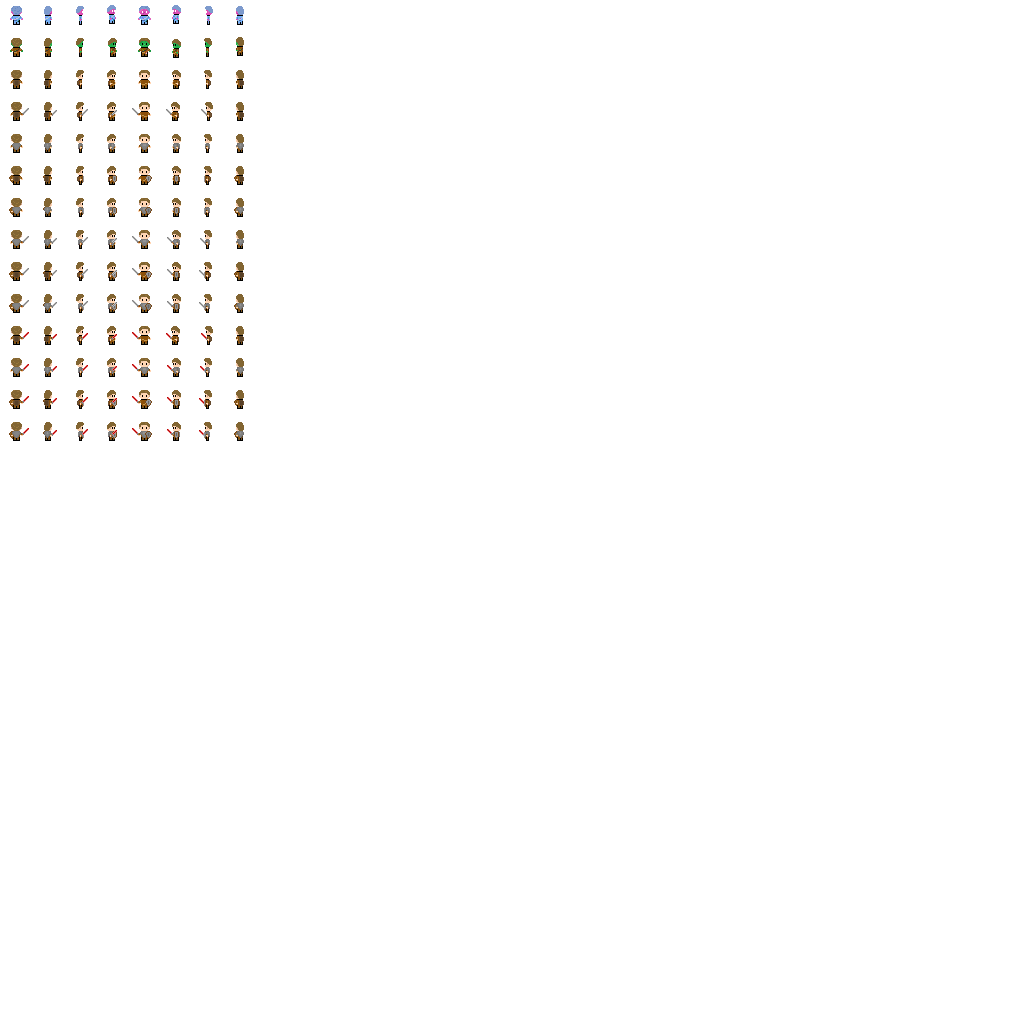
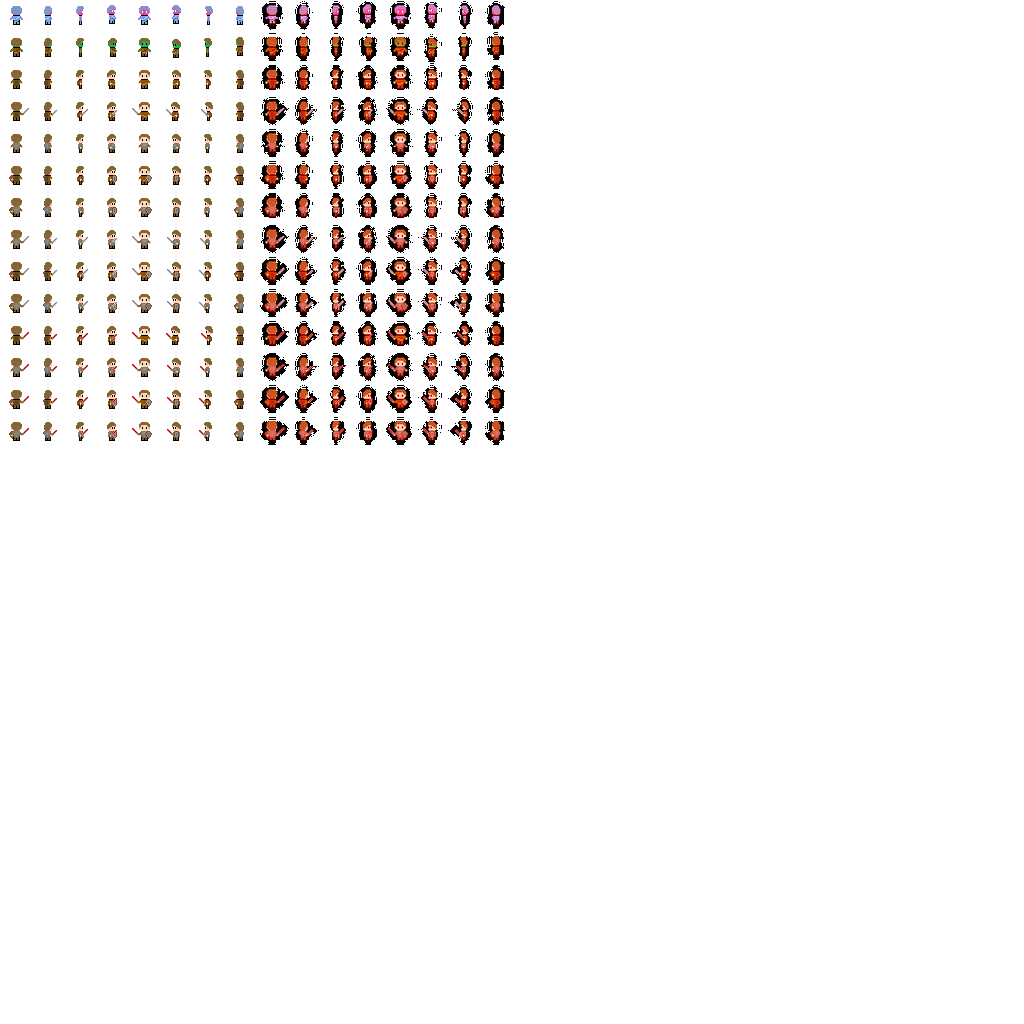
hurtanimation fast fertig

Changed region(s): [[0.25, 0.0, 0.5, 0.4375]]

diff --git a/desktop/src/src/Sprites.java b/desktop/src/src/Sprites.java
@@ -12,7 +12,7 @@ import com.badlogic.gdx.math.Rectangle;
 import com.badlogic.gdx.graphics.glutils.ShapeRenderer;
 import static com.badlogic.gdx.scenes.scene2d.actions.Actions.delay;
 
-public class Sprites extends SpriteBatch{
+public class Sprites extends SpriteBatch {
 
     private double[] randomx; //random x coordinate for plants
     private double[] randomy;  //random y coordinate for plants
@@ -31,11 +31,6 @@ public class Sprites extends SpriteBatch{
     BitmapFont font;
 
 
-
-
-
-
-
     public Sprites() {
         gameOver = new Texture(Gdx.files.internal("game over.png"));
         map = new Texture(Gdx.files.internal("map.png"));
@@ -49,14 +44,13 @@ public class Sprites extends SpriteBatch{
         randomx = new double[2000];
         randomy = new double[2000];
 
-        for(int i = 0; i < 2000; i++){
+        for (int i = 0; i < 2000; i++) {
             randomx[i] = MathUtils.random();
             randomy[i] = MathUtils.random();
         }
 
 
     }
-
 
 
     //methods
@@ -70,7 +64,7 @@ public class Sprites extends SpriteBatch{
         drawRegionNew(x, y);
     }
 
-    public void drawItem(int itemNr, int x, int y){ //draws item at given coordinates
+    public void drawItem(int itemNr, int x, int y) { //draws item at given coordinates
         setRegionItem(0, itemNr);
         drawRegionNew(x, y);
     }
@@ -104,14 +98,17 @@ public class Sprites extends SpriteBatch{
         setSpriteNr(spriteNr);
         setStatus(status);
     }
+
     public void setCharacterSprite(int status, int spriteNr) {
         setRegionCharacter(spriteNr, status);
         setSpriteNr(spriteNr);
         setStatus(status);
     }
+
     public void setCharacterSprite() {
         setRegionCharacter(getSpriteNr(), getStatus());
     }
+
     public void setRegionCommon(Texture texture, int x, int y, int size, int offsetx, int offsety) { //sets the region to a square of 32 * the size with the given offset at the coordinates x and y
         if (size > 0) {
             region = new TextureRegion(texture, (size * 32 * x) + offsetx, (size * 32 * y) + offsety, size * 32, size * 32);
@@ -123,7 +120,7 @@ public class Sprites extends SpriteBatch{
     }
 
     public void setRegionPlant(int plantType, int plantNr) {
-        setRegionCommon(plantatlas,plantNr, plantType, 2, 0, 0);
+        setRegionCommon(plantatlas, plantNr, plantType, 2, 0, 0);
     }
 
 
@@ -142,7 +139,7 @@ public class Sprites extends SpriteBatch{
 
     public void maps() { //draws map
         setRegionCommon(map, 0, 0, 128, 0, 0);
-        drawRegionNew(0,0);
+        drawRegionNew(0, 0);
     }
 
     public void lol(Matrix4 k) {
@@ -150,66 +147,65 @@ public class Sprites extends SpriteBatch{
     }
 
 
-    public void drawPlant(int plantType, int plantNr, int x, int y){ //draws a single plant, aux mehtod
+    public void drawPlant(int plantType, int plantNr, int x, int y) { //draws a single plant, aux mehtod
 
-        if(plantType == 5){
-            if(plantNr < 2){
+        if (plantType == 5) {
+            if (plantNr < 2) {
                 setRegionCommon(plantatlas, 0, 2, 4, 0, 64);
-            }
-            else{
+            } else {
                 setRegionCommon(plantatlas, 1, 2, 4, 0, 64);
             }
+        } else {
+            setRegionPlant(plantType, plantNr);
         }
-            else{setRegionPlant(plantType, plantNr);}
-            drawRegionNew(x, y);
+        drawRegionNew(x, y);
     }
 
     public void drawManyPlantsNew() { //draws plants at randomized locations
-int q;
+        int q;
         for (int j = 0; j < 800; j++) {
 
-                        drawPlant(0, compare(((int) (randomx[j] * 3900) + 100), j), (int) (randomx[j] * 3800) + 100, (int) (randomy[j] * 3850) + 100);
-                    }
+            drawPlant(0, compare(((int) (randomx[j] * 3900) + 100), j), (int) (randomx[j] * 3800) + 100, (int) (randomy[j] * 3850) + 100);
+        }
 
 
         for (int j = 0; j < 300; j++) {
 
-                    drawPlant(1, compare(((int) (randomx[j + 800] * 3900) + 100), j), (int) (randomx[j + 800] * 3800) + 100, (int) (randomy[j + 800] * 3850) + 100);
-                }
+            drawPlant(1, compare(((int) (randomx[j + 800] * 3900) + 100), j), (int) (randomx[j + 800] * 3800) + 100, (int) (randomy[j + 800] * 3850) + 100);
+        }
 
-                for (int j = 0; j < 200; j++) {
+        for (int j = 0; j < 200; j++) {
 
-                    drawPlant(2, compare(((int) (randomx[j + 1100] * 3900) + 100), j), (int) (randomx[j + 1100] * 3800) + 100, (int) (randomy[j + 1100] * 3850) + 100);
-                }
-
-
-                for (int j = 0; j < 200; j++) {
-
-                    drawPlant(3, compare(((int) (randomx[j + 1300] * 3900) + 100), j), (int) (randomx[j + 1300] * 3800) + 100, (int) (randomy[j + 1300] * 3850) + 100);
-                }
+            drawPlant(2, compare(((int) (randomx[j + 1100] * 3900) + 100), j), (int) (randomx[j + 1100] * 3800) + 100, (int) (randomy[j + 1100] * 3850) + 100);
+        }
 
 
-                for (int j = 0; j < 150; j++) {
+        for (int j = 0; j < 200; j++) {
 
-                    drawPlant(4, compare(((int) (randomx[j + 1500] * 3900) + 100), j), (int) (randomx[j + 1500] * 3800) + 100, (int) (randomy[j + 1500] * 3850) + 100);
-                }
-
-
-                for (int j = 0; j < 50; j++) {
-
-                    drawPlant(5, compare(((int) (randomx[j + 1650] * 3900) + 100), j), (int) (randomx[j + 1650] * 3800) + 100, (int) (randomy[j + 1650] * 3850) + 100);
-                }
+            drawPlant(3, compare(((int) (randomx[j + 1300] * 3900) + 100), j), (int) (randomx[j + 1300] * 3800) + 100, (int) (randomy[j + 1300] * 3850) + 100);
+        }
 
 
+        for (int j = 0; j < 150; j++) {
+
+            drawPlant(4, compare(((int) (randomx[j + 1500] * 3900) + 100), j), (int) (randomx[j + 1500] * 3800) + 100, (int) (randomy[j + 1500] * 3850) + 100);
+        }
+
+
+        for (int j = 0; j < 50; j++) {
+
+            drawPlant(5, compare(((int) (randomx[j + 1650] * 3900) + 100), j), (int) (randomx[j + 1650] * 3800) + 100, (int) (randomy[j + 1650] * 3850) + 100);
+        }
 
 
     }
+
     public int compare(int abscissa, int j) { //aux method for drawManyPlants
         int q;
         if (abscissa < 3030) {
             q = (int) (randomx[j] * 2);
         } else {
-            if (((int) (randomx[j] * 2) == 1)){
+            if (((int) (randomx[j] * 2) == 1)) {
                 q = 3;
             } else {
                 q = 2;
@@ -217,35 +213,37 @@ int q;
         }
         return q;
     }
-    public void drawTower(){ //draws the tower
+
+    public void drawTower() { //draws the tower
         drawPlant(1, 4, 2048, 2048);
 
     }
 
-    public void drawRegionGameOver(int x, int y, int drawx, int drawy){ //selects the frame for game over screen
+    public void drawRegionGameOver(int x, int y, int drawx, int drawy) { //selects the frame for game over screen
         region = new TextureRegion(gameOver, x, y, 320, 180);
         drawRegionNew(drawx, drawy);
     }
 
-    public void drawGameOver(int x, int y){ //draws (animated) game over screen
-        for(int i = 0; i < 4; i++){
-            for(int k = 0; k < 12; k++){
-                if(i < 3){
-                    drawRegionGameOver( k * 320, 360 + i * 180, x, y);
+    public void drawGameOver(int x, int y) { //draws (animated) game over screen
+        for (int i = 0; i < 4; i++) {
+            for (int k = 0; k < 12; k++) {
+                if (i < 3) {
+                    drawRegionGameOver(k * 320, 360 + i * 180, x, y);
                     delay(150);
                 }
-                if(i == 3){
-                    while(k < 6){
+                if (i == 3) {
+                    while (k < 6) {
                         drawRegionGameOver(k * 320, 720, x, y);
                         delay(150);
                     }
                 }
             }
         }
-        drawRegionGameOver(320 ,720, x, y);
+        drawRegionGameOver(320, 720, x, y);
 
     }
-    public void gameOver(int x, int y){
+
+    public void gameOver(int x, int y) {
         drawRegionGameOver(320, 540, x, y);
     } //draws game over screen (just a test)
 
@@ -264,29 +262,40 @@ int q;
         font.draw(batch, tmp3, x + 140, y + 80);
         batch.end();
     }
-    public void endschrift(int x, int y){ //pretty selfexplanatory, ready to be deleted
+
+    public void endschrift(int x, int y) { //pretty selfexplanatory, ready to be deleted
         batch.begin();
-        font.draw(batch,"druecke E zum starten",x,y);
+        font.draw(batch, "druecke E zum starten", x, y);
         batch.end();
     }
 
-    public void hitAnimation(int status, int spriteNr, int x, int y){
-        if(status == 2){drawCharacter(status, spriteNr, x, y);}
-        else if(status == 3){drawCharacter( 10, spriteNr, x, y);}
-        else if(status == 7){drawCharacter( 11, spriteNr, x, y);}
-        else if(status == 8){drawCharacter( 12, spriteNr, x, y);}
-        else if(status == 9){drawCharacter( 13, spriteNr, x, y);}
+    public void hitAnimation(int status, int spriteNr, int x, int y) {
+        if (status == 2) {
+            drawCharacter(status, spriteNr, x, y);
+        } else if (status == 3) {
+            drawCharacter(10, spriteNr, x, y);
+        } else if (status == 7) {
+            drawCharacter(11, spriteNr, x, y);
+        } else if (status == 8) {
+            drawCharacter(12, spriteNr, x, y);
+        } else if (status == 9) {
+            drawCharacter(13, spriteNr, x, y);
+        }
+        delay(200);
+
+    }
+
+    public void moveAnimation(int status, int spriteNr) {
+
+    }
+
+    public void hurtAnimation(int status, int spriteNr, int x, int y){
+        drawCharacter(status, spriteNr + 8, x, y);
         delay(100);
 
     }
-    public void moveAnimation(int status, int spriteNr){
-
-    }
-
 }
-
-
-// end sprites
+    // end sprites
 
 
 

diff --git a/desktop/src/src/MainGameScreen.java b/desktop/src/src/MainGameScreen.java
@@ -107,6 +107,7 @@ public class MainGameScreen implements Screen{
                     zr.setPosition(z.mx(i), z.my(i));
                     if (playerr.overlaps(zr)) {
                         player.hurt();
+                        game.batch.hurtAnimation(player.getStatus(), player.getSpriteNr(), (int)x, (int)y);
                     }
                     if (turmr.overlaps(zr)) {
                         turm.hurt();
@@ -155,8 +156,8 @@ public class MainGameScreen implements Screen{
 
         }
         if (!player.lebet()) {
-            x = 2048;
-            y = 2048;
+            player.x = 2048;
+            player.y = 2048;
             delay(300);
         }
 
